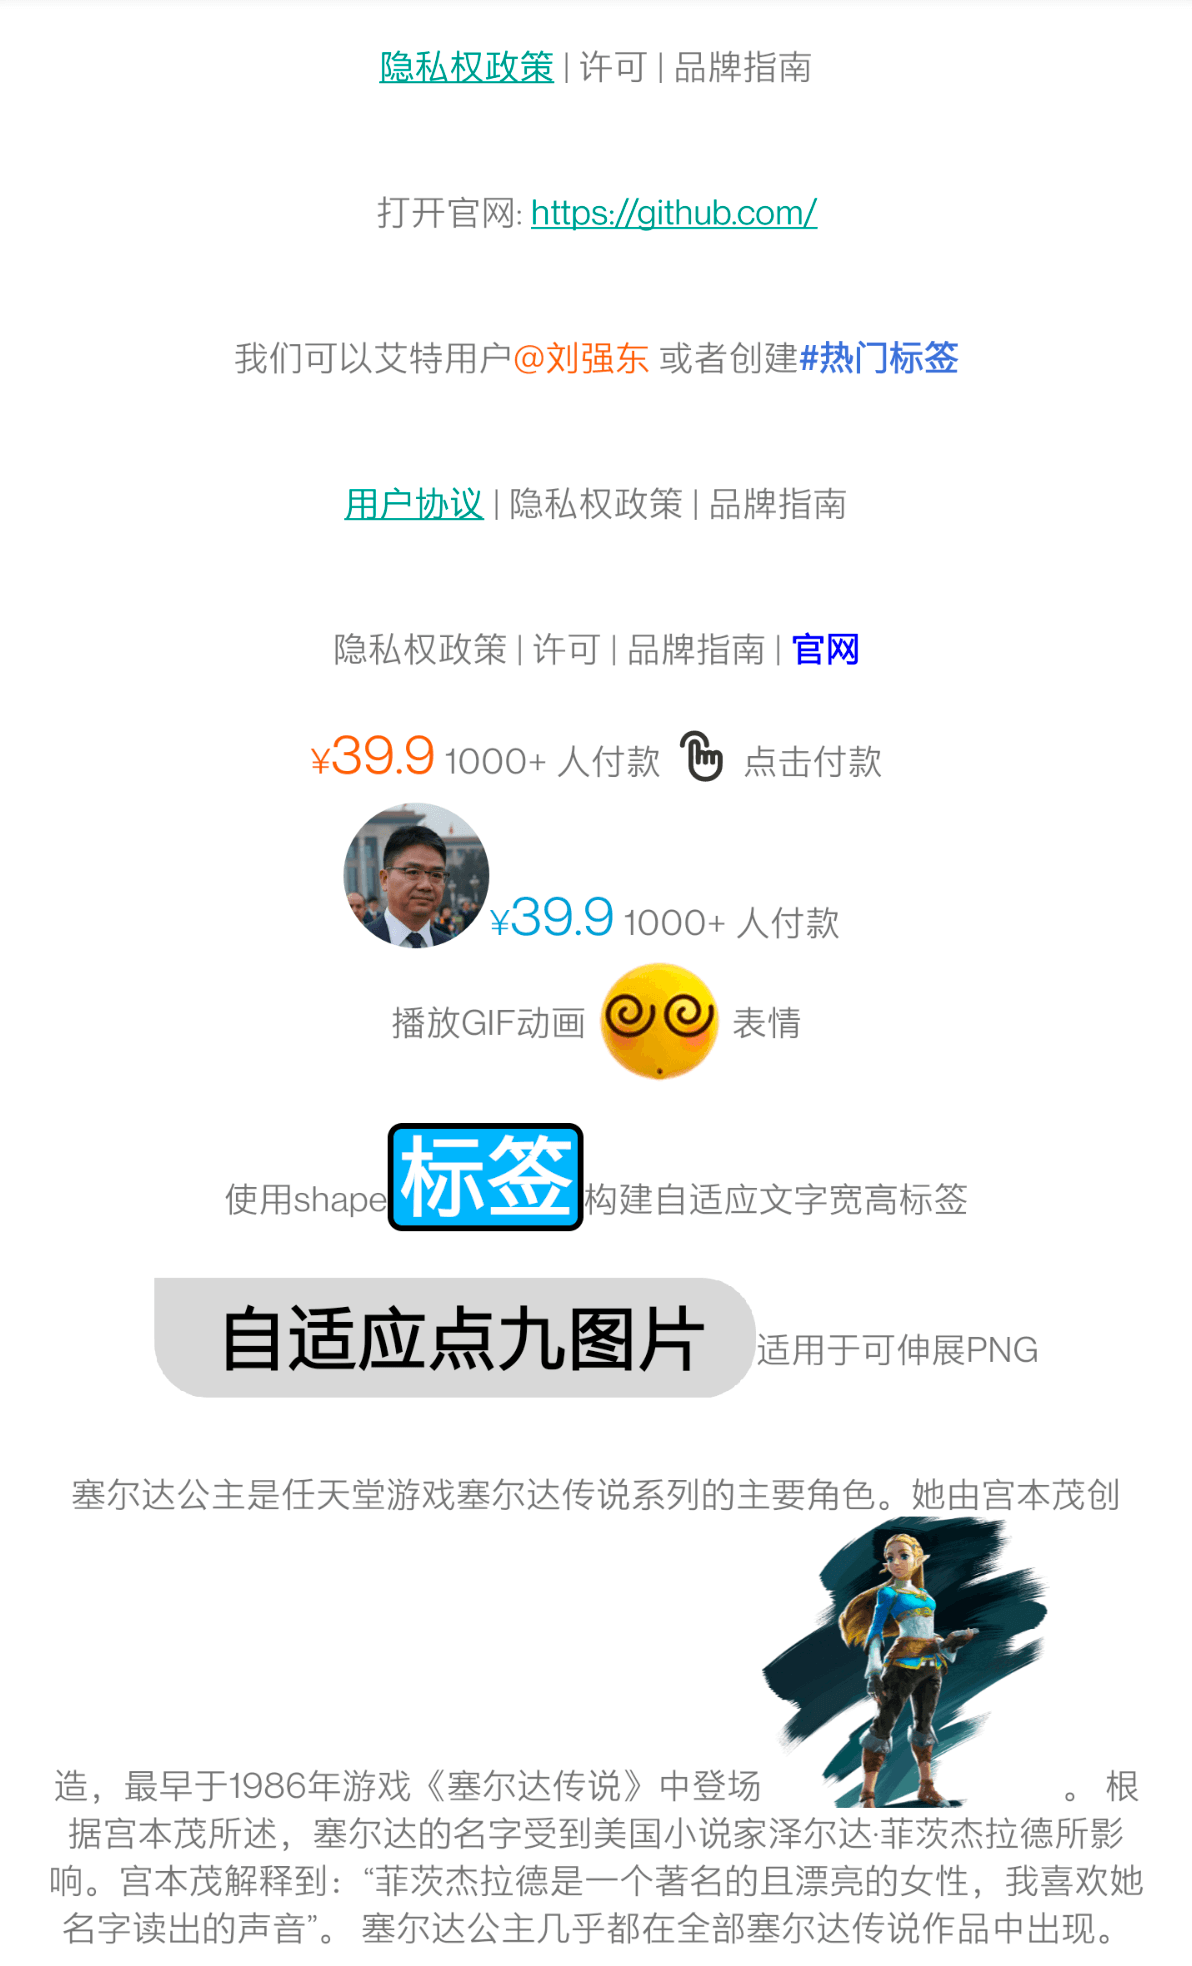
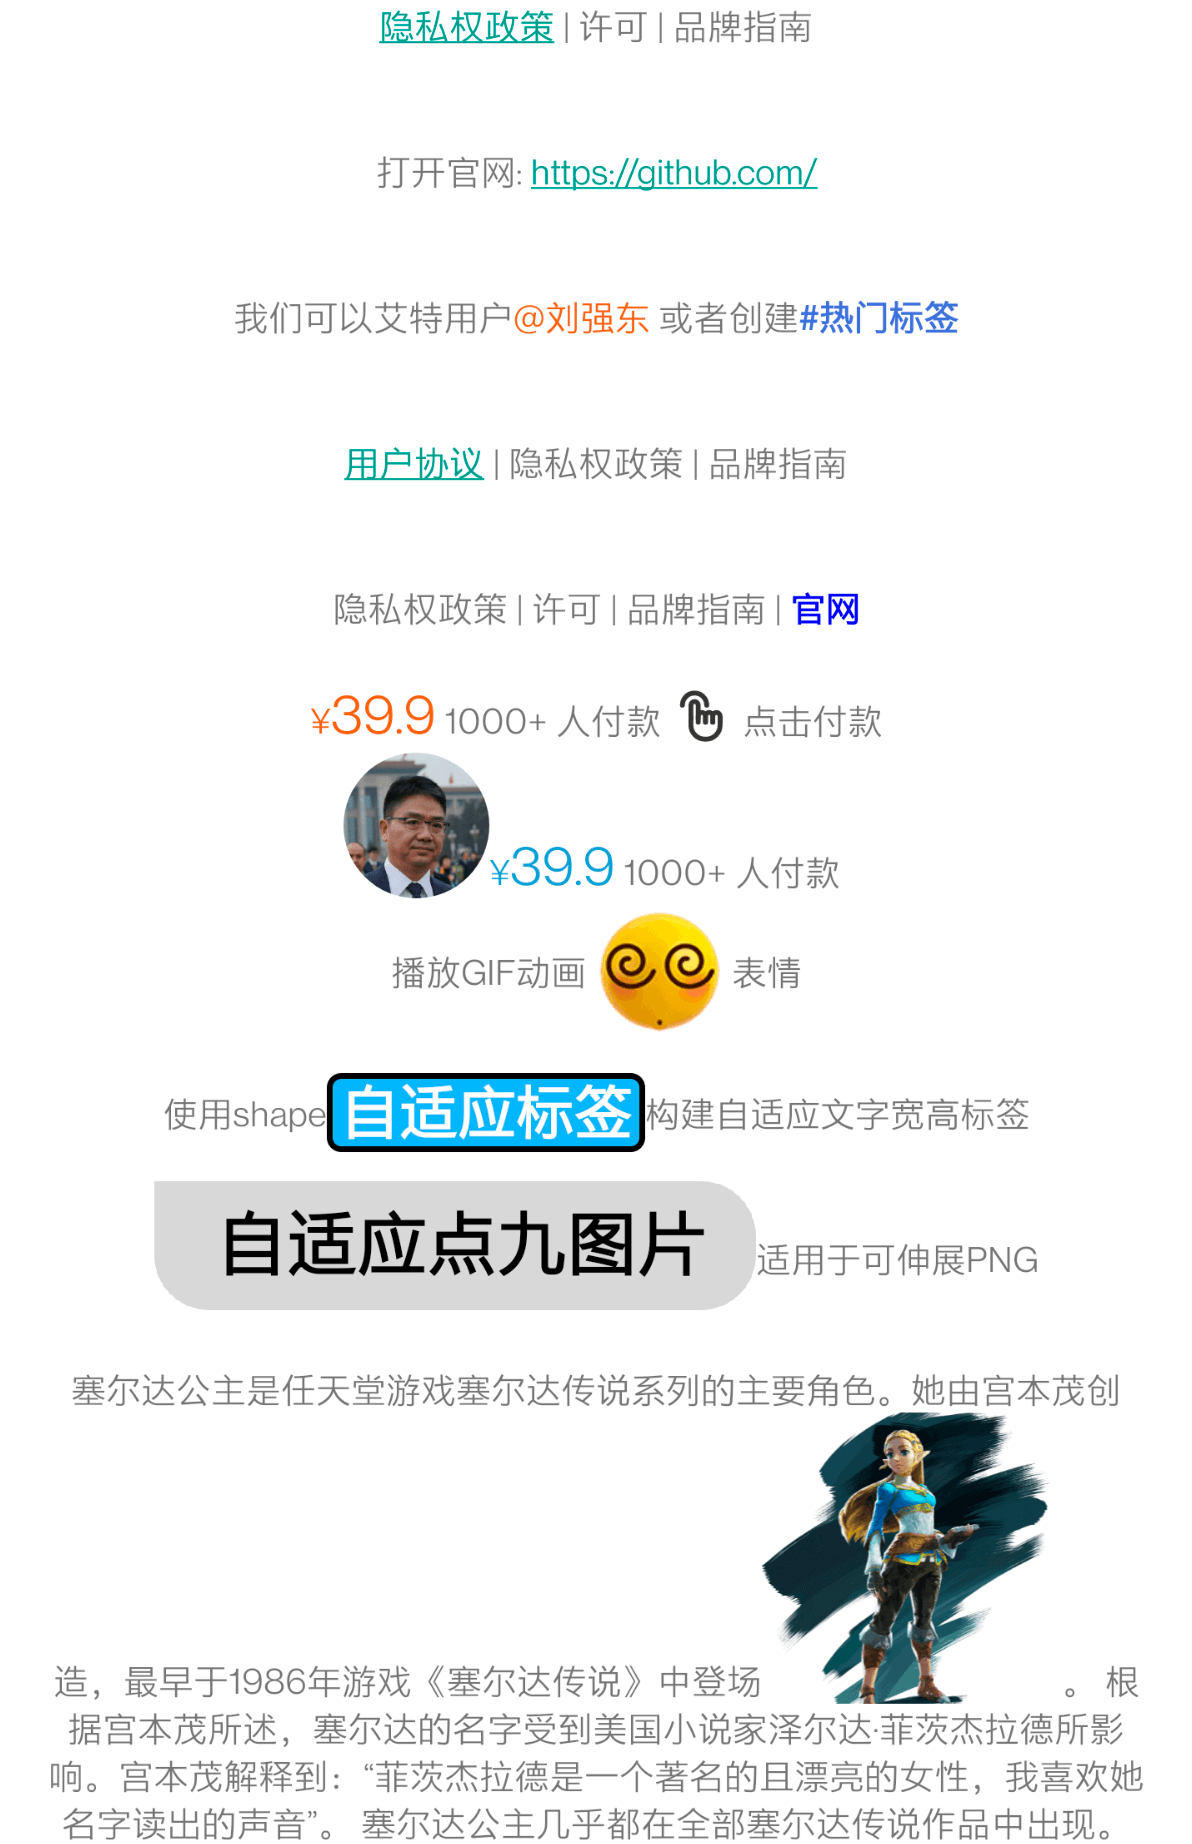
sample: 演示中缀表达式使用

diff --git a/app/src/main/java/com/drake/spannable/sample/MainActivity.kt b/app/src/main/java/com/drake/spannable/sample/MainActivity.kt
@@ -127,7 +127,7 @@ class MainActivity : BaseMenuActivity() {
                 AbsoluteSizeSpan(24, true),
                 StyleSpan(Typeface.BOLD)
             )
-        ).addSpan("适用于可伸展PNG")
+        ) addSpan "适用于可伸展PNG"
 
         binding.tv10.text = "塞尔达公主是任天堂游戏塞尔达传说系列的主要角色。她由宫本茂创造，最早于1986年游戏《塞尔达传说》中登场%s 。 根据宫本茂所述，塞尔达的名字受到美国小说家泽尔达·菲茨杰拉德所影响。宫本茂解释到：“菲茨杰拉德是一个著名的且漂亮的女性，我喜欢她名字读出的声音”。 塞尔达公主几乎都在全部塞尔达传说作品中出现。".replaceSpan("%s") {
             GlideImageSpan(binding.tv10, R.drawable.ic_zelda)
